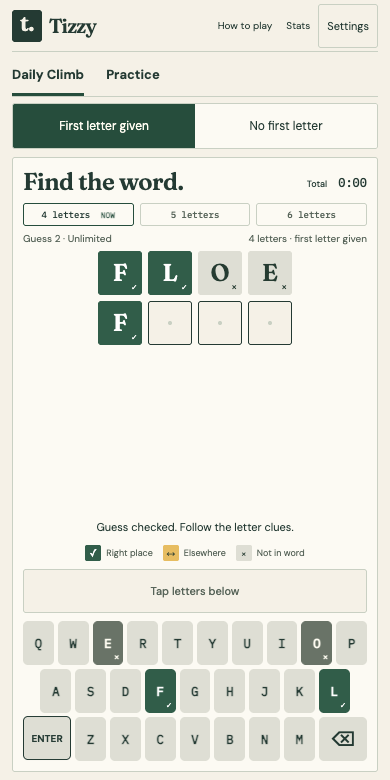
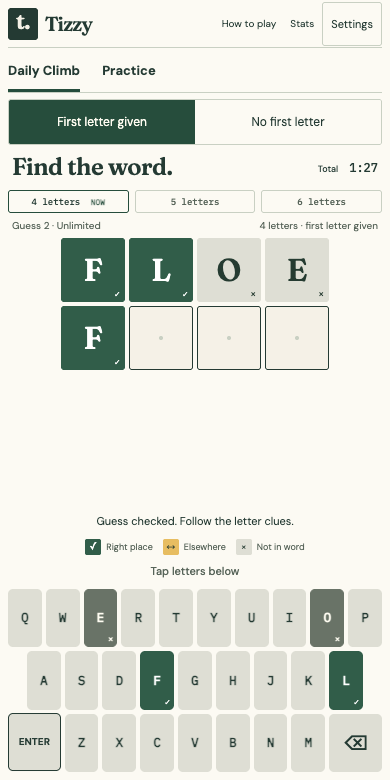
Improve mobile game layout and clarify answer-list analysis

diff --git a/src/styles.css b/src/styles.css
@@ -274,6 +274,9 @@ button:focus-visible,a:focus-visible,input:focus-visible,select:focus-visible,.g
   margin-bottom:12px;
   gap:10px
 }
+.board-space {
+  display:contents;
+}
 .board {
   --tile-size:52px;
   display:grid;
@@ -286,6 +289,7 @@ button:focus-visible,a:focus-visible,input:focus-visible,select:focus-visible,.g
   overflow-y:auto;
   grid-auto-rows:max-content;
   scrollbar-width:thin;
+  padding-bottom:2px;
 }
 .board-history {
   margin:8px 0;
@@ -1167,42 +1171,81 @@ dialog:has(.settings-form) > :is(.dialog-heading,h2) {
     font-size:9px
   }
 }
-/* Daily play uses the available phone height; only the guess history scrolls. */
+/* On phones the game is the canvas; the keyboard uses the screen width. */
+@media(max-width:600px) {
+  .app-shell:has(.play-area) { background:var(--surface); }
+  .app:has(.play-area) {
+    padding-inline:max(8px,env(safe-area-inset-left)) max(8px,env(safe-area-inset-right));
+  }
+  .composition { max-width:none; }
+  .play-area { padding:0; background:none; border:0; border-radius:0; box-shadow:none; }
+  .play-area .play-header,.play-area .puzzle-meta { padding-inline:4px; }
+}
+/* Use flex space for the board, keeping controls in flow and clear of safe areas.
+   Short landscape screens retain ordinary page scrolling. */
 @media(max-width:600px) and (min-height:540px) {
-  .app:has(.daily-session[data-playing]) {
+  .app:has(.play-area[data-playing]) {
     height:calc(100dvh - env(safe-area-inset-top) - env(safe-area-inset-bottom));
     display:flex;
     flex-direction:column;
   }
-  .app:has(.daily-session[data-playing]) .masthead { height:52px; flex-shrink:0; }
-  .app:has(.daily-session[data-playing]) .play-modes { flex-shrink:0; }
-  .app:has(.daily-session[data-playing]) .play-modes button { min-height:44px; padding-block:10px 7px; }
-  .app:has(.daily-session[data-playing]) > .site-footer { display:none; }
+  .app:has(.play-area[data-playing]) .masthead { height:48px; flex-shrink:0; }
+  .app:has(.play-area[data-playing]) .play-modes { flex-shrink:0; }
+  .app:has(.play-area[data-playing]) .play-modes button { min-height:44px; padding-block:10px 7px; }
+  .app:has(.play-area[data-playing]) > .site-footer { display:none; }
   .daily-session[data-playing] { flex:1; min-height:0; display:flex; flex-direction:column; }
   .daily-session[data-playing] .daily-toolbar { padding-top:6px; gap:0; flex-shrink:0; }
   .daily-session[data-playing] .daily-toolbar > span { display:none; }
   .daily-session[data-playing] .daily-variants { width:100%; }
   .daily-session[data-playing] .daily-variants button { flex:1; }
-  .daily-session[data-playing] .composition { width:100%; flex:1; min-height:0; padding:8px 0; display:flex; }
-  .daily-session[data-playing] .play-area { width:100%; min-height:0; display:flex; flex-direction:column; padding:10px; }
-  .daily-session[data-playing] .play-area > :not(.board) { flex-shrink:0; }
-  .daily-session[data-playing] .play-header { margin-bottom:6px; }
+  .composition:has(> .play-area[data-playing]) { width:100%; flex:1; min-height:0; margin:0; padding:8px 0; display:flex; flex-direction:column; }
+  .play-area[data-playing] { flex:1; min-height:0; display:flex; flex-direction:column; }
+  .play-area[data-playing] > :not(.board-space) { flex-shrink:0; }
+  .play-area[data-playing] .play-header { margin-bottom:8px; }
+  .play-area[data-playing] .play-header h2 { margin:0; font-size:24px; }
   .daily-session[data-playing] .play-header .eyebrow { display:none; }
-  .daily-session[data-playing] .play-header h2 { margin:0; font-size:24px; }
   .daily-session[data-playing] .daily-clock { flex-direction:row; align-items:baseline; }
-  .daily-session[data-playing] .sequence { margin-bottom:6px; }
-  .daily-session[data-playing] .sequence li { padding:5px 4px; }
-  .daily-session[data-playing] .sequence b { display:inline; margin-left:5px; }
-  .daily-session[data-playing] .puzzle-meta { margin-bottom:6px; }
-  .daily-session[data-playing] .board { flex:1; min-height:44px; max-height:none; align-content:start; --tile-size:44px; }
-  .daily-session[data-playing] .board-history { font-size:9px; margin:3px 0 0; }
-  .daily-session[data-playing] .feedback { margin:4px 0; }
-  .daily-session[data-playing] .legend { margin:4px 0 8px; }
-  .daily-session[data-playing] .input-label { display:none; }
-  .daily-session[data-playing] .keyboard { margin-top:8px; gap:4px; }
-  .daily-session[data-playing] .key { min-height:44px; }
-  .daily-session[data-playing] .play-footer { display:none; }
+  .play-area[data-playing] .sequence { margin-bottom:6px; }
+  .play-area[data-playing] .sequence li { padding:5px 4px; }
+  .play-area[data-playing] .sequence b { display:inline; margin-left:5px; }
+  .play-area[data-playing] .puzzle-meta { margin-bottom:6px; }
+  .play-area[data-playing] .board-space {
+    flex:1;
+    min-height:calc(var(--rows)*32px + (var(--rows) - 1)*4px + var(--clue-space));
+    container-type:size;
+    display:flex;
+    flex-direction:column;
+    justify-content:center;
+  }
+  .play-area[data-playing] .board-space:has([data-unlimited]) { min-height:44px; }
+  .play-area[data-playing] .board {
+    --tile-size:clamp(32px,calc((100cqh - var(--clue-space) - (var(--rows) - 1)*4px)/var(--rows)),64px);
+    width:min(100%,calc(var(--length)*var(--tile-size) + (var(--length) - 1)*4px));
+    gap:4px;
+  }
+  .play-area[data-playing] .board-row { gap:4px; }
+  .play-area[data-playing] .board[data-unlimited] {
+    --tile-size:clamp(44px,calc((100cqh - 8px)/3),64px);
+    flex:1; min-height:0; max-height:none; align-content:start;
+  }
+  .play-area[data-playing] .clue-board { margin-bottom:12px; }
+  .play-area[data-playing] .tile { font-size:clamp(22px,4dvh,32px); }
+  .play-area[data-playing] .board-history { font-size:9px; margin:3px 0 0; }
+  .play-area[data-playing] .feedback { margin:4px 0; }
+  .play-area[data-playing] .legend { margin:4px 0; }
+  .play-area[data-playing] .input-label { display:none; }
+  .play-area[data-playing] .guess-display { height:24px; min-height:24px; line-height:20px; padding:0 8px; border:0; background:none; }
+  .play-area[data-playing] .keyboard { margin-top:6px; gap:4px; }
+  .play-area[data-playing] .key { min-height:clamp(44px,7.5dvh,60px); }
+  .play-area[data-playing] .give-up { margin:4px auto 0; padding-block:8px; }
+  .play-area[data-playing] .play-footer { display:none; }
   .daily-session[data-playing] .daily-unfinished { flex-shrink:0; }
+}
+/* On short phones the mode name carries the heading; keep room for all five rows. */
+@media(max-width:600px) and (min-height:540px) and (max-height:620px) {
+  .play-area[data-playing] .play-header { margin-bottom:6px; }
+  .play-area[data-playing] .play-header h2 { display:none; }
+  .daily-session[data-playing] .play-header .eyebrow { display:block; }
 }
 @media(prefers-reduced-motion:reduce) {
   * {

diff --git a/src/Play.tsx b/src/Play.tsx
@@ -74,9 +74,34 @@ export function Puzzle({ data, round, setRound, now, pendingRules, onContinue, d
   const attempt = clue ? 'Try' : 'Guess';
   const maxGuesses = round.rules.maxGuesses;
   const knowledge = keyboardFeedback(clue ? [clue, ...round.guesses] : round.guesses);
+  const unfinishedEntry = retainEntry && entry.length > 0;
   useEffect(() => {
-    if (maxGuesses === null && boardRef.current) boardRef.current.scrollTop = boardRef.current.scrollHeight;
-  }, [maxGuesses, round.guesses.length, round.answer, round.status]);
+    const board = boardRef.current;
+    if (maxGuesses !== null || !board) return;
+    // Reveal the current row, not the unused rows beneath it. A phone resize can
+    // also change the board viewport while a guess is being entered.
+    const index = Math.max(0, round.guesses.length - (!active && !unfinishedEntry ? 1 : 0));
+    const revealRow = () => {
+      const row = board.children[Math.min(index, board.children.length - 1)];
+      if (!row) return;
+      const bounds = board.getBoundingClientRect();
+      const target = row.getBoundingClientRect();
+      if (target.bottom + 2 > bounds.bottom) board.scrollTop += Math.ceil(target.bottom + 2 - bounds.bottom);
+      else if (target.top < bounds.top) board.scrollTop -= Math.ceil(bounds.top - target.top);
+    };
+    revealRow();
+    let width = board.clientWidth;
+    let height = board.clientHeight;
+    const observer = new ResizeObserver(() => {
+      // The initial notification must not undo a player's manual history scroll.
+      if (width === board.clientWidth && height === board.clientHeight) return;
+      width = board.clientWidth;
+      height = board.clientHeight;
+      revealRow();
+    });
+    observer.observe(board);
+    return () => observer.disconnect();
+  }, [maxGuesses, round.guesses.length, round.answer, active, unfinishedEntry]);
 
   function focusForPhysicalTyping() {
     if (window.matchMedia('(hover: hover) and (pointer: fine)').matches) entryRef.current?.focus({ preventScroll: true });
@@ -181,7 +206,7 @@ export function Puzzle({ data, round, setRound, now, pendingRules, onContinue, d
       {pendingRules && !sameRules(round.rules, pendingRules) && <p className="pending-settings" aria-live="polite">
         <strong>Saved for next round.</strong> {describeRules(pendingRules)}. This round is unchanged.
       </p>}
-      <section className="play-area" aria-label="Word puzzle">
+      <section className="play-area" data-playing={active || undefined} aria-label="Word puzzle">
         <div className="play-header"><div>
           <p className="eyebrow">{dailyTiming ? 'DAILY CLIMB · 4 → 5 → 6' : `${mode.toUpperCase()} · ${sequence ? '4 → 5 → 6' : `${round.length} LETTERS`}`}</p>
           <h2>{clue ? 'Solve the clue.' : 'Find the word.'}</h2>
@@ -204,14 +229,15 @@ export function Puzzle({ data, round, setRound, now, pendingRules, onContinue, d
             : active ? `${attempt} ${round.guesses.length + 1} of ${maxGuesses}` : `${round.guesses.length} of ${count(maxGuesses, clue !== null)} used`}</span>
           <span>{clue ? 'One clue given' : `${round.length} letters · ${first ? 'first letter given' : 'no first letter'}`}</span>
         </div>
-        {clue && <div className="board clue-board" role="group" aria-label={`Given clue: ${clue.word.toUpperCase()}`}
-          style={{ '--length': round.length } as CSSProperties}>
-          <p className="clue-label" aria-hidden="true">Clue</p>
-          <div className="board-row">{[...clue.word].map((letter, column) => <Tile key={column} letter={letter} feedback={clue.feedback[column]} />)}</div>
-        </div>}
-        <div ref={boardRef} className="board" data-unlimited={maxGuesses === null || undefined}
-          tabIndex={maxGuesses === null ? 0 : undefined}
-          style={{ '--length': round.length } as CSSProperties} role="group" aria-label="Guess board">{rows}</div>
+        <div className="board-space" style={{ '--length': round.length, '--rows': (maxGuesses ?? 5) + (clue ? 1 : 0), '--clue-space': clue ? '30px' : '0px' } as CSSProperties}>
+          {clue && <div className="board clue-board" role="group" aria-label={`Given clue: ${clue.word.toUpperCase()}`}>
+            <p className="clue-label" aria-hidden="true">Clue</p>
+            <div className="board-row">{[...clue.word].map((letter, column) => <Tile key={column} letter={letter} feedback={clue.feedback[column]} />)}</div>
+          </div>}
+          <div ref={boardRef} className="board" data-unlimited={maxGuesses === null || undefined}
+            tabIndex={maxGuesses === null ? 0 : undefined}
+            role="group" aria-label="Guess board">{rows}</div>
+        </div>
         {maxGuesses === null && round.guesses.length >= 5 && <p className="board-history">Scroll the board to see earlier guesses.</p>}
         {!active && <div className="result" role="status">
           <div><h3>{resultTitle}</h3><p>The word was <strong>{round.answer.toUpperCase()}</strong>.</p>

diff --git a/src/AnalysisDialog.tsx b/src/AnalysisDialog.tsx
@@ -19,26 +19,28 @@ function FeedbackWord({ guess }: { guess: Guess }) {
   </span>;
 }
 
-function GuessReview({ guess, solved }: { guess: GuessAnalysis; solved: boolean }) {
+function GuessReview({ guess, solved, answers }: { guess: GuessAnalysis; solved: boolean; answers: readonly string[] }) {
   const { word, value, before, after, alternatives } = guess;
+  const inAnswerList = answers.includes(word);
   const best = alternatives[0];
   const title = value === null ? 'No new clues this time.' : before === 1
-    ? solved ? 'You had it pinned down.' : 'Only one answer was possible.'
+    ? solved ? 'You had it pinned down.' : 'Only one word remained in the answer list.'
     : solved ? 'You found it.' : value.bits < 1e-9 ? 'This added no new information.'
     : !best ? 'A top information choice.' : after === 1 ? 'You narrowed it down to one.' : 'You narrowed the field.';
   return <>
     <div className="review-commentary">
       <h4>{title}</h4>
+      {value && !inAnswerList && <p>{word.toUpperCase()} is an accepted guess, but it is not in Tizzy’s answer list.</p>}
       {value === null ? <p>This attempt was not scored. It supplied no letter information, so all {before} possibilities remained.</p>
         : before === 1 ? <p>{value.solveChance === 1 ? 'You played the only remaining answer: a certain solve. No further information was needed.'
-          : `${word.toUpperCase()} could not be the answer. The earlier clues had already identified ${guess.remaining[0]?.toUpperCase()}.`}</p>
+          : `${inAnswerList ? `The earlier clues had already ruled out ${word.toUpperCase()}. ` : ''}${guess.remaining[0]?.toUpperCase()} was the only word left in that list.`}</p>
         : <>
           <p>You had <strong>{before} possible answers</strong>. {word.toUpperCase()} would leave <strong>{decimal(value.expectedRemaining)} on average</strong>.
             {Math.abs(after - value.expectedRemaining) < 1e-9 ? ` This time, ${after} remained, exactly as expected.`
               : after < value.expectedRemaining ? ` This time, just ${after} remained — a fortunate result.`
               : ` This time, ${after} remained, more than expected.`}</p>
           {best && <p><strong>{best.word.toUpperCase()}</strong> would reveal more information on average{best.solveChance === 0
-            ? ', though it could not itself be the answer.' : '.'}</p>}
+            ? answers.includes(best.word) ? ', though earlier clues had already ruled it out.' : ', though it is not in Tizzy’s answer list.' : '.'}</p>}
         </>}
       {guess.lastTry && value && before > 1 && <p className="review-caution">This was your last try. An answer still in contention had a {chance(1 / before)} chance of solving; gathering information alone could not win.</p>}
     </div>
@@ -116,7 +118,7 @@ export function AnalysisDialog({ round, data, onClose, retained = false }: { rou
           </ol>
           <section ref={reviewRef} className="review-turn" aria-label={`Guess ${selected + 1} review`}>
             <p className="eyebrow" aria-live="polite">GUESS {selected + 1} OF {guesses.length} · {current.word.toUpperCase()} · {current.before} → {current.after} POSSIBLE</p>
-            <GuessReview key={selected} guess={current} solved={round.guesses[selected].feedback?.every((mark) => mark === 'correct') ?? false} />
+            <GuessReview key={selected} guess={current} answers={data.answers[round.length]} solved={round.guesses[selected].feedback?.every((mark) => mark === 'correct') ?? false} />
           </section>
         </>}
         <details className="analysis-method">

diff --git a/tests/browser/gameplay.spec.ts b/tests/browser/gameplay.spec.ts
@@ -232,3 +232,48 @@ test.describe('touch presentation', () => {
     }
   }
 });
+
+for (const [width, height] of [[320, 568], [390, 667], [430, 932]]) {
+  for (const preset of ['practice-six', 'sequence']) {
+    test(`${preset} uses the phone canvas at ${width}x${height}`, async ({ page }) => {
+      await page.setViewportSize({ width, height });
+      await page.addInitScript((preset) => localStorage.setItem('word-practice-preferences-v1', JSON.stringify({ theme: 'letterpress', preset })), preset);
+      await wordFixtures(page);
+      await page.goto('/');
+      const keyboard = page.getByRole('group', { name: 'On-screen keyboard' });
+      await expect(keyboard).toBeInViewport({ ratio: 1 });
+      const bounds = await keyboard.boundingBox();
+      expect(bounds!.width).toBeGreaterThanOrEqual(width - 16);
+      expect(bounds!.y + bounds!.height).toBeGreaterThanOrEqual(height - 12);
+      expect(await page.evaluate(() => document.documentElement.scrollWidth)).toBe(width);
+      expect(await page.evaluate(() => scrollY)).toBe(0);
+      for (const tile of await page.getByRole('group', { name: 'Guess board', exact: true }).getByRole('img').all()) {
+        await expect(tile).toBeInViewport({ ratio: 1 });
+        const size = await tile.boundingBox();
+        expect(size!.width).toBeGreaterThanOrEqual(31);
+        expect(Math.abs(size!.width - size!.height)).toBeLessThan(1);
+      }
+      await page.getByRole('button', { name: 'C', exact: true }).click();
+      await expect(page.getByRole('group', { name: 'Guess 1', exact: true })).toHaveText('C✓');
+    });
+  }
+}
+
+test('a short Sprint shows the current row instead of scrolling to unused rows', async ({ page }) => {
+  await page.setViewportSize({ width: 320, height: 568 });
+  await page.addInitScript(() => localStorage.setItem('word-practice-preferences-v1', JSON.stringify({ theme: 'letterpress', preset: 'sprint' })));
+  await page.clock.install();
+  await wordFixtures(page);
+  await page.goto('/');
+  const board = page.getByRole('group', { name: 'Guess board', exact: true });
+  await expect(board.getByRole('group', { name: 'Guess 1', exact: true })).toBeInViewport({ ratio: 1 });
+  for (let attempt = 0; attempt < 6; attempt++) await guess(page, 'COAT');
+  const current = board.getByRole('group', { name: 'Guess 7', exact: true });
+  await expect(current).toBeInViewport({ ratio: 1 });
+  await enterWord(page, 'CAM');
+  await page.setViewportSize({ width: 390, height: 667 });
+  await expect(current).toBeInViewport({ ratio: 1 });
+  await expect(current).toHaveText('C✓AM');
+  await expect(page.getByRole('group', { name: 'On-screen keyboard' })).toBeInViewport({ ratio: 1 });
+  await expect(page.getByRole('button', { name: 'Give up', exact: true })).toBeInViewport({ ratio: 1 });
+});

diff --git a/tests/browser/analysis.spec.ts b/tests/browser/analysis.spec.ts
@@ -37,6 +37,7 @@ test('analysis is post-word only, explains choices, restores focus and resets on
   await expect(first).toContainText('4 → 3');
   await expect(dialog.getByLabel('Information score: 54', { exact: true })).toBeVisible();
   await expect(first).toContainText('2.5 on average');
+  await expect(first).toContainText('BARK would reveal more information on average, though it is not in Tizzy’s answer list.');
   await expect(first.getByRole('region', { name: 'Remaining answers' }).getByRole('listitem')).toHaveText(['BALE', 'BANE', 'BARE']);
   await first.locator('summary').filter({ hasText: 'Compare the choices' }).click();
   const table = first.getByRole('table');
@@ -59,6 +60,25 @@ test('analysis is post-word only, explains choices, restores focus and resets on
   await page.getByRole('button', { name: 'Next word', exact: true }).click();
   await expect(page.getByRole('button', { name: 'Analyse guesses' })).toHaveCount(0);
   await expect(page.getByText('Guess 1 of 5')).toBeVisible();
+});
+
+test('analysis distinguishes accepted guesses outside the answer list from answers ruled out by clues', async ({ page }) => {
+  await fixture(page);
+  await page.route('**/words/answers/4.txt', (route) => route.fulfill({ body: 'grab\ngray\n' }));
+  await page.route('**/words/4.txt', (route) => route.fulfill({ body: 'grab\ngran\ngray\n' }));
+  await page.reload();
+  await guess(page, 'GRAY');
+  await guess(page, 'GRAN');
+  await guess(page, 'GRAY');
+  await guess(page, 'GRAB');
+  const dialog = await openAnalysis(page);
+  await dialog.getByRole('button', { name: 'Review guess 2: GRAN' }).click();
+  const outsideList = dialog.getByRole('region', { name: 'Guess 2 review' });
+  await expect(outsideList).toContainText('GRAN is an accepted guess, but it is not in Tizzy’s answer list.');
+  await expect(outsideList).toContainText('GRAB was the only word left in that list.');
+  await expect(outsideList).not.toContainText('could not be the answer');
+  await dialog.getByRole('button', { name: 'Review guess 3: GRAY' }).click();
+  await expect(dialog.getByRole('region', { name: 'Guess 3 review' })).toContainText('The earlier clues had already ruled out GRAY.');
 });
 
 test('a loss can be reviewed and repeated guesses add no information', async ({ page }) => {

diff --git a/docs/ui.md b/docs/ui.md
@@ -110,6 +110,14 @@ Guess distribution
 
 Statistics are text first: four headline numbers (played, solved percentage, current and best streak), then smaller figures for average solve time in minutes:seconds and, for sequence presets, rounds completed and rounds whose time ran out. The guess distribution has a labelled row for every guess count up to the preset's limit plus **✗** for words not solved (accessible names such as "3 guesses: 2 words", "Not solved: 1 word").; bars are reinforcement only, and the row holding the most recent result is emphasised. One-try presets (In one) replace the distribution with two uPlot charts in the theme's colours, drawn at the dialog's pixel width so labels stay 10px, with clock-style ticks (0:15, 0:30, 1:00). **Solve times** plots the last 20 words oldest to newest on a log time axis: solves joined by a line, failures as ✕, the latest point enlarged, and a dashed average line, with a small legend; its accessible name lists every time ("Last 4 words, oldest first: 0:10, 0:40, not solved (1:10), 0:20"). **Your spread** draws the fitted bell curve on a log time axis with the middle two-thirds shaded and each solve as a dot on the curve at its time; the latest is larger and labelled ("latest 0:26") on the outside of the slope. The chart is decorative and its caption carries the meaning ("About two-thirds of your solves take 0:23–1:19 (shaded)."). With fewer than two solves it says **Solve at least two words to see your spread.** Median and Fastest join Average solve on the smaller line. Below it, the selected variant's ten most recent words are listed newest first with answer, result and guesses used, or solve time for one-try presets. No history at all shows **No finished words yet.**; an unplayed variant shows **Not played yet.** **Clear stats** is a two-step control inside the dialog (Clear stats, then Confirm clear or Cancel) rather than a browser confirm. Blocked or corrupt history storage shows the empty state and never prevents play. The three header buttons must fit a 320px viewport without horizontal overflow.
 
+### Phone play layout
+
+On screens up to 600px wide, the game uses a flat canvas with 8px side gutters (or the device safe area), without the desktop card border, shadow or inner padding. The keyboard spans the available width. All three themes retain their type, tile colours and key feedback.
+
+In portrait viewports at least 540px tall, active play fills the available dynamic viewport height. Compact navigation and progress sit above a flexible board; feedback, the legend, a compact guess display and the keyboard sit below it. Finite boards grow their square tiles into the available space, up to 64px. Unlimited boards use 44–64px tiles and scroll their history, keeping the current row visible after submission or a viewport resize. Unused Sprint rows must not scroll the active row away. Keys are 44–60px tall. The repeated generic heading is omitted on phones no taller than 620px; the mode name still identifies the game.
+
+Result screens and short landscape layouts remain naturally scrollable. Desktop retains its centred card. Browser checks cover 320×568, 390×667 and 430×932, plus existing theme, touch, landscape and history cases.
+
 ### Clue puzzles
 
 ```text
